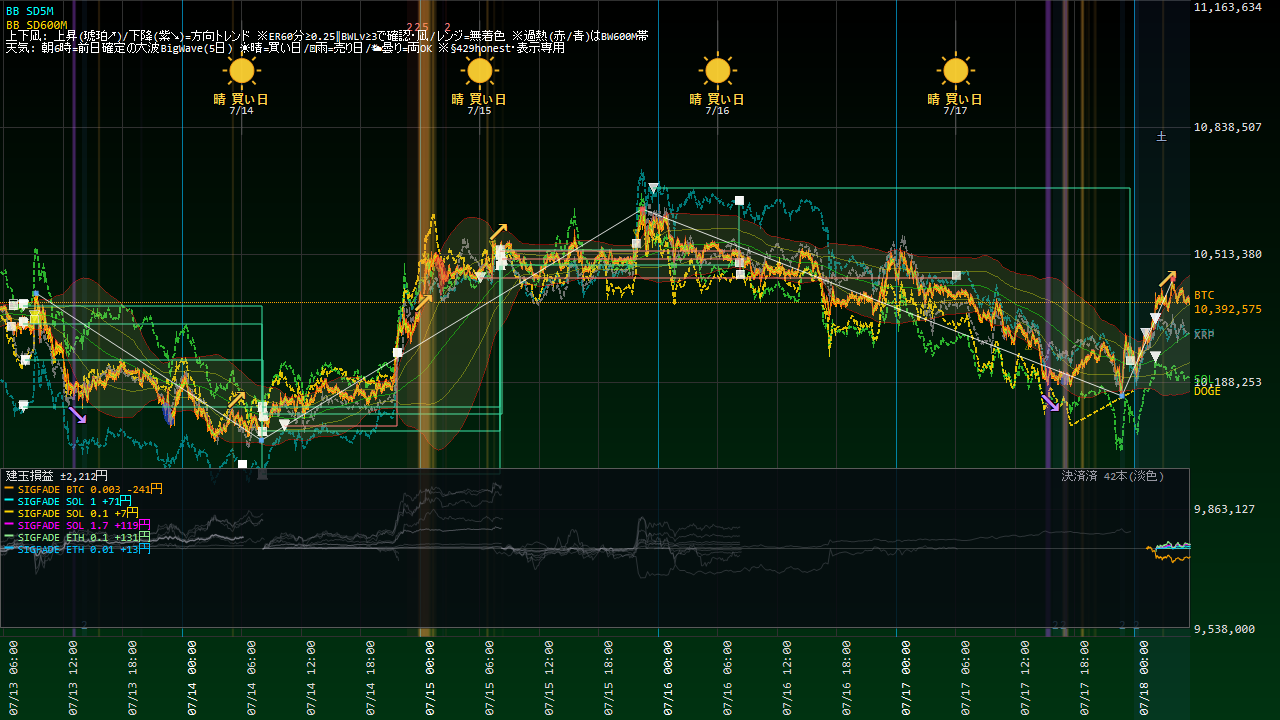
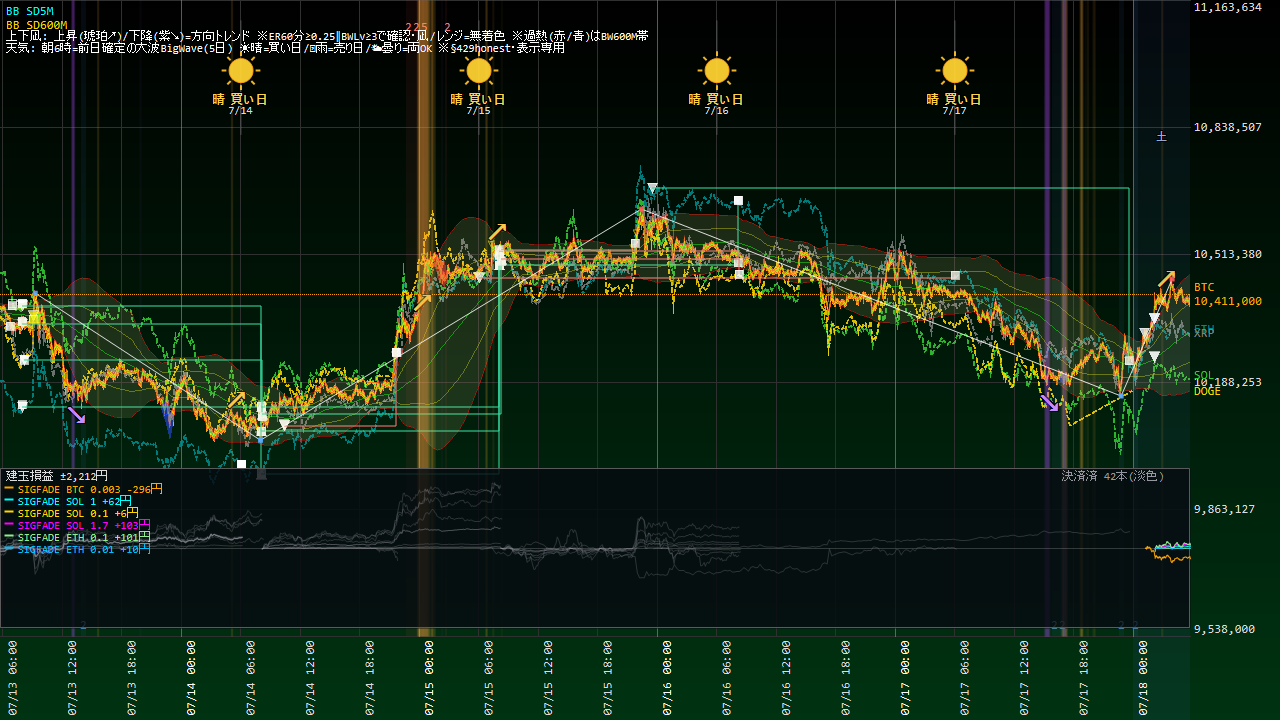
Coin100S 運用状況更新 07-18 05:47

diff --git a/coin100s-795hc4jfv8/index.html b/coin100s-795hc4jfv8/index.html
@@ -14,16 +14,16 @@ a{color:#60a5fa;text-decoration:none} a:hover{text-decoration:underline}
 .meta{color:#94a3b8;font-size:13px}</style>
 <script>setTimeout(function(){location.replace(location.pathname+"?t="+Date.now());},300000);</script></head><body>
 <h1>Coin100S ダッシュボード</h1>
-<p class="meta">スナップショット: 2026-07-18 05:40:42(自動リロード・最新化)</p>
+<p class="meta">スナップショット: 2026-07-18 05:46:42(自動リロード・最新化)</p>
 <div class="cards">
 <div class="card">建玉数<div class="v">6</div></div>
 <div class="card">本日損益<div class="v pos">+475円</div></div>
-<div class="card">評価損益<div class="v pos">+114円</div></div>
+<div class="card">評価損益<div class="v neg">-9円</div></div>
 </div>
 <h2>現在の建玉</h2>
-<table><tr><th>銘柄</th><th>側</th><th>数量</th><th>建値</th><th>含損益</th><th>レッグ</th></tr><tr><td>BTC_JPY</td><td>SELL</td><td>0.003</td><td>@10,312,904</td><td>-231円</td><td>SIGFADE_BTC</td></tr><tr><td>ETH_JPY</td><td>SELL</td><td>0.01</td><td>@300,517</td><td>+14円</td><td>SIGFADE_ETH</td></tr><tr><td>ETH_JPY</td><td>SELL</td><td>0.1</td><td>@300,518</td><td>+149円</td><td>SIGFADE_ETH</td></tr><tr><td>SOL_JPY</td><td>SELL</td><td>1.7</td><td>@12,248</td><td>+110円</td><td>SIGFADE_SOL</td></tr><tr><td>SOL_JPY</td><td>SELL</td><td>0.1</td><td>@12,248</td><td>+6円</td><td>SIGFADE_SOL</td></tr><tr><td>SOL_JPY</td><td>SELL</td><td>1</td><td>@12,249</td><td>+66円</td><td>SIGFADE_SOL</td></tr></table>
+<table><tr><th>銘柄</th><th>側</th><th>数量</th><th>建値</th><th>含損益</th><th>レッグ</th></tr><tr><td>BTC_JPY</td><td>SELL</td><td>0.003</td><td>@10,312,904</td><td>-291円</td><td>SIGFADE_BTC</td></tr><tr><td>ETH_JPY</td><td>SELL</td><td>0.01</td><td>@300,517</td><td>+9円</td><td>SIGFADE_ETH</td></tr><tr><td>ETH_JPY</td><td>SELL</td><td>0.1</td><td>@300,518</td><td>+91円</td><td>SIGFADE_ETH</td></tr><tr><td>SOL_JPY</td><td>SELL</td><td>1.7</td><td>@12,248</td><td>+110円</td><td>SIGFADE_SOL</td></tr><tr><td>SOL_JPY</td><td>SELL</td><td>0.1</td><td>@12,248</td><td>+6円</td><td>SIGFADE_SOL</td></tr><tr><td>SOL_JPY</td><td>SELL</td><td>1</td><td>@12,249</td><td>+66円</td><td>SIGFADE_SOL</td></tr></table>
 <p><a href="status.html"><b>▶ 運用状況の詳細(チャート・本日の取引・レジーム)</b></a></p>
 <h2>日報一覧</h2>
 <table><tr><th>取引日</th><th>実現損益</th><th>総括</th></tr><tr><td><a href='reports/20260716_Coin100S日報.html'>2026-07-16</a></td><td class="pos">+0円</td><td class='meta'>実取引: 新規0件/決済5件、実現損益 +0円。⚠警告/エラー 7件（要確認）。</td></tr><tr><td><a href='reports/20260715_Coin100S日報.html'>2026-07-15</a></td><td class="pos">+0円</td><td class='meta'>実取引: 新規6件/決済5件、実現損益 +0円。シグナル却下6件（最多: BW10M3_5M／トレンド方向ゲート(N分傾き上と不一致=逆張り方向のfade禁止)）。⚠警告/エラー 7件（要確認）。</td></tr><tr><td><a href='reports/20260714_Coin100S日報.html'>2026-07-14</a></td><td class="pos">+0円</td><td class='meta'>実取引: 新規6件/決済18件、実現損益 +0円。シグナル却下5件（最多: BW10M3_5M／トレンド方向ゲート(N分傾き上と不一致=逆張り方向のfade禁止)）。⚠警告/エラー 9件（要確認）。</td></tr><tr><td><a href='reports/20260713_Coin100S日報.html'>2026-07-13</a></td><td class="pos">+0円</td><td class='meta'>実取引: 新規5件/決済8件、実現損益 +0円。シグナル却下1件（最多: BW10M3_5M／トレンド方向ゲート(N分傾き上と不一致=逆張り方向のfade禁止)）。警告/孤児/エラーなし＝健全。</td></tr><tr><td><a href='reports/20260712_Coin100S日報.html'>2026-07-12</a></td><td class="pos">+0円</td><td class='meta'>実取引: 新規14件/決済6件、実現損益 +0円。シグナル却下5件（最多: BW10M3_5M／トレンド方向ゲート(N分傾き下と不一致=逆張り方向のfade禁止)）。⚠警告/エラー 2件（要確認）。</td></tr><tr><td><a href='reports/20260711_Coin100S日報.html'>2026-07-11</a></td><td class="pos">+0円</td><td class='meta'>実取引: 新規7件/決済6件、実現損益 +0円。⚠警告/エラー 52件（要確認）。</td></tr><tr><td><a href='reports/20260710_Coin100S日報.html'>2026-07-10</a></td><td class="pos">+0円</td><td class='meta'>実取引: 新規7件/決済6件、実現損益 +0円。シグナル却下6件（最多: BW10M3_5M／トレンド方向ゲート(N分傾き上と不一致=逆張り方向のfade禁止)）。警告/孤児/エラーなし＝健全。</td></tr><tr><td><a href='reports/20260709_Coin100S日報.html'>2026-07-09</a></td><td class="pos">+0円</td><td class='meta'>実取引: 新規8件/決済3件、実現損益 +0円。シグナル却下5件（最多: SD120M_5M／トレンド方向ゲート(N分傾き上と不一致=逆張り方向のfade禁止)）。警告/孤児/エラーなし＝健全。</td></tr><tr><td><a href='reports/20260708_Coin100S日報.html'>2026-07-08</a></td><td class="pos">+0円</td><td class='meta'>実取引: 新規2件/決済4件、実現損益 +0円。シグナル却下4件（最多: SD120M_5M／トレンド方向ゲート(N分傾き下と不一致=逆張り方向のfade禁止)）。警告/孤児/エラーなし＝健全。</td></tr><tr><td><a href='reports/20260707_Coin100S日報.html'>2026-07-07</a></td><td class="pos">+0円</td><td class='meta'>実取引: 新規8件/決済6件、実現損益 +0円。シグナル却下4件（最多: SD120M_5M／トレンド方向ゲート(N分傾き上と不一致=逆張り方向のfade禁止)）。⚠警告/エラー 258件（要確認）。</td></tr><tr><td><a href='reports/20260706_Coin100S日報.html'>2026-07-06</a></td><td class="pos">+0円</td><td class='meta'>実取引: 新規9件/決済6件、実現損益 +0円。シグナル却下9件（最多: SD120M_5M／トレンド方向ゲート(N分傾き上と不一致=逆張り方向のfade禁止)）。⚠警告/エラー 150件（要確認）。</td></tr><tr><td><a href='reports/20260705_Coin100S日報.html'>2026-07-05</a></td><td class="pos">+0円</td><td class='meta'>実取引: 新規8件/決済3件、実現損益 +0円。⚠警告/エラー 2件（要確認）。</td></tr><tr><td><a href='reports/20260704_Coin100S日報.html'>2026-07-04</a></td><td class="pos">+0円</td><td class='meta'>実取引: 新規1件/決済2件、実現損益 +0円。⚠警告/エラー 2件（要確認）。</td></tr><tr><td><a href='reports/20260703_Coin100S日報.html'>2026-07-03</a></td><td class="pos">+0円</td><td class='meta'>実取引: 新規5件/決済4件、実現損益 +0円。⚠警告/エラー 15件（要確認）。</td></tr><tr><td><a href='reports/20260702_Coin100S日報.html'>2026-07-02</a></td><td class="pos">+0円</td><td class='meta'>実取引: 新規7件/決済5件、実現損益 +0円。シグナル却下17件（最多: SD120M_5M／トレンド方向ゲート(N分傾き上と不一致=逆張り方向のfade禁止)）。⚠警告/エラー 26件（要確認）。</td></tr><tr><td><a href='reports/20260701_Coin100S日報.html'>2026-07-01</a></td><td class="pos">+0円</td><td class='meta'>実取引: 新規14件/決済8件、実現損益 +0円。シグナル却下14件（最多: SD120M_5M／ボラ軸ゲート(SDN%&amp;gt;N%=高ボラ/荒れレンジ)）。⚠警告/エラー 2件（要確認）。</td></tr><tr><td><a href='reports/20260630_Coin100S日報.html'>2026-06-30</a></td><td class="pos">+0円</td><td class='meta'>実取引: 新規0件/決済1件、実現損益 +0円。シグナル却下29件（最多: 微5M／当日枠N）。警告/孤児/エラーなし＝健全。</td></tr></table>
-<hr><p class="meta">更新: 2026-07-18 05:41:06 / 自動生成: tools/web_publish.py(§580)</p>
+<hr><p class="meta">更新: 2026-07-18 05:47:07 / 自動生成: tools/web_publish.py(§580)</p>
 </body></html>

diff --git a/coin100s-795hc4jfv8/status.html b/coin100s-795hc4jfv8/status.html
@@ -14,22 +14,22 @@ a{color:#60a5fa;text-decoration:none} a:hover{text-decoration:underline}
 .meta{color:#94a3b8;font-size:13px}</style>
 <script>setTimeout(function(){location.replace(location.pathname+"?t="+Date.now());},300000);</script></head><body>
 <h1>Coin100S 運用状況</h1>
-<p class="meta">スナップショット: 2026-07-18 05:40:42 / ページ生成: 2026-07-18 05:41:06(自動リロード・最新化) / <a href="index.html">目次へ</a></p>
+<p class="meta">スナップショット: 2026-07-18 05:46:42 / ページ生成: 2026-07-18 05:47:07(自動リロード・最新化) / <a href="index.html">目次へ</a></p>
 <div class="cards">
 <div class="card">建玉数<div class="v">6</div></div>
 <div class="card">本日損益<div class="v pos">+475円</div></div>
-<div class="card">評価損益<div class="v pos">+114円</div></div>
+<div class="card">評価損益<div class="v neg">-9円</div></div>
 </div>
 <h2>資産推移(直近30日)</h2>
-<img src="status_equity.png?t=0541" alt="equity">
+<img src="status_equity.png?t=0547" alt="equity">
 <h2>取引チャート(直近24h)</h2>
-<img src="status_chart.png?t=0541" alt="chart">
+<img src="status_chart.png?t=0547" alt="chart">
 <h2>建玉一覧</h2>
-<table><tr><th>銘柄</th><th>側</th><th>数量</th><th>建値</th><th>含損益</th><th>レッグ</th></tr><tr><td>BTC_JPY</td><td>SELL</td><td>0.003</td><td>@10,312,904</td><td>-231円</td><td>SIGFADE_BTC</td></tr><tr><td>ETH_JPY</td><td>SELL</td><td>0.01</td><td>@300,517</td><td>+14円</td><td>SIGFADE_ETH</td></tr><tr><td>ETH_JPY</td><td>SELL</td><td>0.1</td><td>@300,518</td><td>+149円</td><td>SIGFADE_ETH</td></tr><tr><td>SOL_JPY</td><td>SELL</td><td>1.7</td><td>@12,248</td><td>+110円</td><td>SIGFADE_SOL</td></tr><tr><td>SOL_JPY</td><td>SELL</td><td>0.1</td><td>@12,248</td><td>+6円</td><td>SIGFADE_SOL</td></tr><tr><td>SOL_JPY</td><td>SELL</td><td>1</td><td>@12,249</td><td>+66円</td><td>SIGFADE_SOL</td></tr></table>
+<table><tr><th>銘柄</th><th>側</th><th>数量</th><th>建値</th><th>含損益</th><th>レッグ</th></tr><tr><td>BTC_JPY</td><td>SELL</td><td>0.003</td><td>@10,312,904</td><td>-291円</td><td>SIGFADE_BTC</td></tr><tr><td>ETH_JPY</td><td>SELL</td><td>0.01</td><td>@300,517</td><td>+9円</td><td>SIGFADE_ETH</td></tr><tr><td>ETH_JPY</td><td>SELL</td><td>0.1</td><td>@300,518</td><td>+91円</td><td>SIGFADE_ETH</td></tr><tr><td>SOL_JPY</td><td>SELL</td><td>1.7</td><td>@12,248</td><td>+110円</td><td>SIGFADE_SOL</td></tr><tr><td>SOL_JPY</td><td>SELL</td><td>0.1</td><td>@12,248</td><td>+6円</td><td>SIGFADE_SOL</td></tr><tr><td>SOL_JPY</td><td>SELL</td><td>1</td><td>@12,249</td><td>+66円</td><td>SIGFADE_SOL</td></tr></table>
 <h2>実現決済履歴(直近15件・OrderId単位)</h2>
 <table><tr><th>決済時刻</th><th>レッグ</th><th>銘柄</th><th>実現損益</th></tr><tr><td>07-17 23:37</td><td>RELVALP_SL700</td><td>ETH</td><td class="pos">+497円</td></tr><tr><td>07-17 06:08</td><td>RELVALP_SELL</td><td>ETH</td><td class="neg">-22円</td></tr><tr><td>07-16 08:21</td><td>TENKI5D_REV_DOGE</td><td>DOGE</td><td class="neg">-125円</td></tr><tr><td>07-16 08:12</td><td>TENKI5D_REV_ETH</td><td>ETH</td><td class="pos">+740円</td></tr><tr><td>07-16 08:12</td><td>TENKI5D_REV_ETH</td><td>ETH</td><td class="pos">+555円</td></tr><tr><td>07-16 08:12</td><td>TENKI5D_REV_SOL</td><td>SOL</td><td class="neg">-193円</td></tr><tr><td>07-15 21:51</td><td>TENKI5D_REV_BTC</td><td>BTC</td><td class="pos">+94円</td></tr><tr><td>07-15 08:18</td><td>TENKI5D_REV_DOGE</td><td>DOGE</td><td class="pos">+858円</td></tr><tr><td>07-15 08:09</td><td>TENKI5D_REV_ETH</td><td>ETH</td><td class="pos">+601円</td></tr><tr><td>07-15 08:09</td><td>TENKI5D_REV_ETH</td><td>ETH</td><td class="pos">+2,402円</td></tr><tr><td>07-15 08:09</td><td>TENKI5D_REV_SOL</td><td>SOL</td><td class="pos">+1,812円</td></tr><tr><td>07-15 08:09</td><td>TENKI5D_REV_BTC</td><td>BTC</td><td class="pos">+1,850円</td></tr><tr><td>07-14 21:47</td><td>SIGFADE_ETH</td><td>ETH</td><td class="neg">-350円</td></tr><tr><td>07-14 21:47</td><td>SIGFADE_ETH</td><td>ETH</td><td class="neg">-141円</td></tr><tr><td>07-14 08:15</td><td>TENKI5D_REV_DOGE</td><td>DOGE</td><td class="pos">+267円</td></tr></table>
 <!-- §799c 「本取引日の実取引(6:00起点)」テーブルは公開ページから削除(ユーザー指示2026-07-15・数量/指値まで晒す情報漏れ)。建玉/実現損益は許可・実発注の生取引明細は非公開 -->
 <h2>現在レジーム(3軸・§570c)</h2>
-<ul><li>アルト対BTC 5日: <b>-76bps</b>(アルト劣後=RELVAL順風)</li><li>BTC ER240m: <b>0.085</b>(閾値0.25→レンジ(fade順風/BWTRD逆風))</li><li>BTC実現ボラ240m: <b>5.22</b> bps/分</li></ul>
+<ul><li>アルト対BTC 5日: <b>-76bps</b>(アルト劣後=RELVAL順風)</li><li>BTC ER240m: <b>0.073</b>(閾値0.25→レンジ(fade順風/BWTRD逆風))</li><li>BTC実現ボラ240m: <b>5.13</b> bps/分</li></ul>
 <hr><p class="meta">自動生成: tools/web_publish.py(§580・読み取り専用)。売買判断はアプリ本体。</p>
 </body></html>
